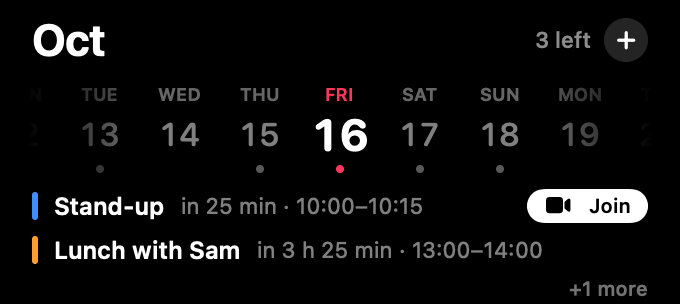
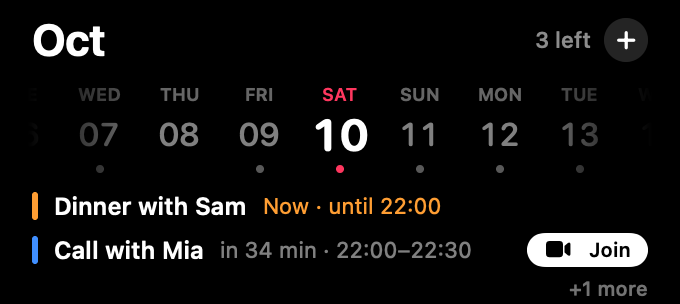
Website from ShawNotch b76483f

diff --git a/index.html b/index.html
@@ -749,7 +749,7 @@ footer nav a:hover { color: var(--ink); }
     <div class="mac">
       <div class="mac-screen" id="mac-screen" role="img" aria-label="The notch open on a MacBook: the Mirror on the left, Now Playing in the middle with Midnight Drive spinning as a record, and the Calendar on the right">
         <div class="mac-canvas">
-          <div class="mac-bar"><span><b>Finder</b><em>File</em><em>Edit</em></span><span>Fri 16 Oct&nbsp;&nbsp;09:35</span></div>
+          <div class="mac-bar"><span><b>Finder</b><em>File</em><em>Edit</em></span><span>Sat 10 Oct&nbsp;&nbsp;21:26</span></div>
           <div class="mac-notch"><img src="images/notch-mirror.png" alt="" width="340" height="152"><img src="images/notch-playing.png" alt="" width="530" height="152"><img src="images/notch-calendar.png" alt="" width="340" height="152"></div>
         </div>
       </div>
@@ -778,7 +778,7 @@ footer nav a:hover { color: var(--ink); }
         <div class="laptop">
           <div class="desktop" id="compare-desktop">
             <div class="desk off" aria-hidden="true">
-              <div class="widget w-date"><small>Friday</small><big>16</big></div>
+              <div class="widget w-date"><small>Saturday</small><big>10</big></div>
               <div class="widget w-clock"><small>Screen time today</small>4h 12m</div>
               <div class="folders"><div class="folder"></div><div class="folder"></div><div class="folder"></div><div class="folder"></div></div>
               <div class="dock"><div class="app"><i></i></div><div class="app"><i></i></div><div class="app"><i></i></div><div class="app"><i></i></div><div class="app"><i></i></div><div class="app"><i></i></div></div>
@@ -786,7 +786,7 @@ footer nav a:hover { color: var(--ink); }
             <div class="desk on" aria-hidden="true">
               <img class="poster" id="posterA" src="images/poster-midnight.jpg" alt="" loading="lazy">
               <img class="poster" id="posterB" src="images/poster-midnight.jpg" alt="" loading="lazy" style="opacity: 0">
-              <div class="widget w-date tinted"><small>Friday</small><big>16</big></div>
+              <div class="widget w-date tinted"><small>Saturday</small><big>10</big></div>
               <div class="widget w-clock tinted"><small>Screen time today</small>4h 12m</div>
               <div class="folders"><div class="folder tinted"></div><div class="folder tinted"></div><div class="folder tinted"></div><div class="folder tinted"></div></div>
               <div class="dock"><div class="app tinted"><i></i></div><div class="app tinted"><i></i></div><div class="app tinted"><i></i></div><div class="app tinted"><i></i></div><div class="app tinted"><i></i></div><div class="app tinted"><i></i></div></div>
@@ -855,7 +855,7 @@ footer nav a:hover { color: var(--ink); }
         </div>
         <button class="track-row" type="button" id="track-calendar" aria-expanded="false" aria-controls="detail-calendar"><span class="no"><span>B3</span></span><span class="name">Calendar</span><span class="sum">Your day, and a quick way to add to it</span><span class="fact">Right edge</span></button>
         <div class="detail" id="detail-calendar" role="region" aria-labelledby="track-calendar">
-          <div class="shot"><img class="side-shot" src="images/notch-calendar.png" alt="The Calendar: Friday the 16th, a stand-up in 25 minutes with a Join button, and lunch with Sam at 1" width="340" height="152" loading="lazy"></div>
+          <div class="shot"><img class="side-shot" src="images/notch-calendar.png" alt="The Calendar: Saturday the 10th, dinner with Sam now, and a call with Mia in 34 minutes with a Join button" width="340" height="152" loading="lazy"></div>
           <div class="text"><h3>Your day, and a quick way to add to it</h3><p>Push right for today's events, with a Join button for video calls. Type "Lunch with Sara tomorrow at 1pm" and it's in your calendar.</p><button class="try" type="button" data-try="calendar">Open it in the notch<svg viewBox="0 0 24 24" fill="none" stroke="currentColor" stroke-width="2.2" stroke-linecap="round" stroke-linejoin="round" aria-hidden="true"><path d="M12 19V5M6 11l6-6 6 6"/></svg></button></div>
         </div>
       </div>
@@ -1400,21 +1400,22 @@ footer nav a:hover { color: var(--ink); }
     renderTray(files.length);
   });
 
-  // MARK: The Calendar: Friday 16 October, 09:35
+  // MARK: The Calendar: Saturday 10 October 2026, 21:26, the evening ShawNotch began
 
-  const nowMinutes = 9 * 60 + 35, today = 16;
-  const weekdays = ['MON', 'TUE', 'WED', 'THU', 'FRI', 'SAT', 'SUN', 'MON', 'TUE'];
-  const days = [12, 13, 14, 15, 16, 17, 18, 19, 20];
+  const nowMinutes = 21 * 60 + 26, today = 10;
+  const weekdays = ['TUE', 'WED', 'THU', 'FRI', 'SAT', 'SUN', 'MON', 'TUE', 'WED'];
+  const days = [6, 7, 8, 9, 10, 11, 12, 13, 14];
   const events = {
-    13: [{ title: 'Haircut', start: 18 * 60, end: 18 * 60 + 45, color: '#BF5AF2' }],
-    15: [{ title: 'Gym', start: 7 * 60, end: 8 * 60, color: '#30D158' }],
-    16: [
-      { title: 'Stand-up', start: 10 * 60, end: 10 * 60 + 15, color: '#0A84FF', join: true },
-      { title: 'Lunch with Sam', start: 13 * 60, end: 14 * 60, color: '#FF9F0A' },
-      { title: 'Record shop', start: 17 * 60 + 30, end: 18 * 60, color: '#FF375F' },
+    7: [{ title: 'Gym', start: 7 * 60, end: 8 * 60, color: '#30D158' }],
+    9: [{ title: 'Haircut', start: 18 * 60, end: 18 * 60 + 45, color: '#BF5AF2' }],
+    10: [
+      { title: 'Dinner with Sam', start: 19 * 60 + 30, end: 22 * 60, color: '#FF9F0A' },
+      { title: 'Call with Mia', start: 22 * 60, end: 22 * 60 + 30, color: '#0A84FF', join: true },
+      { title: 'Late film', start: 23 * 60 + 15, end: 23 * 60 + 59, color: '#FF375F' },
     ],
-    17: [{ title: 'Vinyl fair', start: 11 * 60, end: 15 * 60, color: '#64D2FF' }],
-    18: [{ title: 'Brunch with Mia', start: 11 * 60 + 30, end: 13 * 60, color: '#FFD60A' }],
+    11: [{ title: 'Vinyl fair', start: 11 * 60, end: 15 * 60, color: '#64D2FF' }],
+    12: [{ title: 'Stand-up', start: 10 * 60, end: 10 * 60 + 15, color: '#0A84FF', join: true }],
+    13: [{ title: 'Record shop', start: 17 * 60 + 30, end: 18 * 60, color: '#FF375F' }],
   };
   let selected = today, scrolled = 0, adding = false, freshEvent = null;
   const calendar = $('calendar');
@@ -1422,7 +1423,7 @@ footer nav a:hover { color: var(--ink); }
   function when(event, day) {
     const span = event.allDay ? 'all day' : `${hhmm(event.start)}–${hhmm(event.end)}`;
     if (day !== today || event.allDay) return span;
-    if (event.start <= nowMinutes) return `now · ${span}`;
+    if (event.start <= nowMinutes) return `Now · until ${hhmm(event.end)}`;
     const wait = event.start - nowMinutes, h = Math.floor(wait / 60), m = wait % 60;
     return `in ${h ? `${h} h ${m} min` : `${m} min`} · ${span}`;
   }
@@ -1436,7 +1437,7 @@ footer nav a:hover { color: var(--ink); }
       button.className = 'day' + (day === today ? ' today' : '') + ((events[day] || []).length ? ' has' : '');
       button.setAttribute('aria-pressed', String(day === selected));
       button.setAttribute('aria-label', `${weekdays[i]} ${day} October`);
-      button.innerHTML = `<small>${weekdays[i]}</small><span>${day}</span><i></i>`;
+      button.innerHTML = `<small>${weekdays[i]}</small><span>${String(day).padStart(2, '0')}</span><i></i>`;
       button.addEventListener('click', () => { selected = day; scrolled = 0; adding = false; renderCalendar(); });
       return button;
     }));
@@ -1487,8 +1488,8 @@ footer nav a:hover { color: var(--ink); }
     let text = $('cal-input').value.trim();
     if (!text) return;
     let day = selected;
-    const dayWords = { today: 16, tonight: 16, tomorrow: 17, saturday: 17, sat: 17, sunday: 18, sun: 18, monday: 19, mon: 19, tuesday: 20, tue: 20 };
-    const dayMatch = text.match(/\b(today|tonight|tomorrow|saturday|sat|sunday|sun|monday|mon|tuesday|tue)\b/i);
+    const dayWords = { today: 10, tonight: 10, tomorrow: 11, sunday: 11, sun: 11, monday: 12, mon: 12, tuesday: 13, tue: 13, wednesday: 14, wed: 14 };
+    const dayMatch = text.match(/\b(today|tonight|tomorrow|sunday|sun|monday|mon|tuesday|tue|wednesday|wed)\b/i);
     if (dayMatch) { day = dayWords[dayMatch[1].toLowerCase()]; text = text.replace(dayMatch[0], ' '); }
     let start = null;
     const timeMatch = text.match(/\b(?:at\s+)?(\d{1,2})(?::(\d{2}))?\s*(am|pm)?\b/i);
